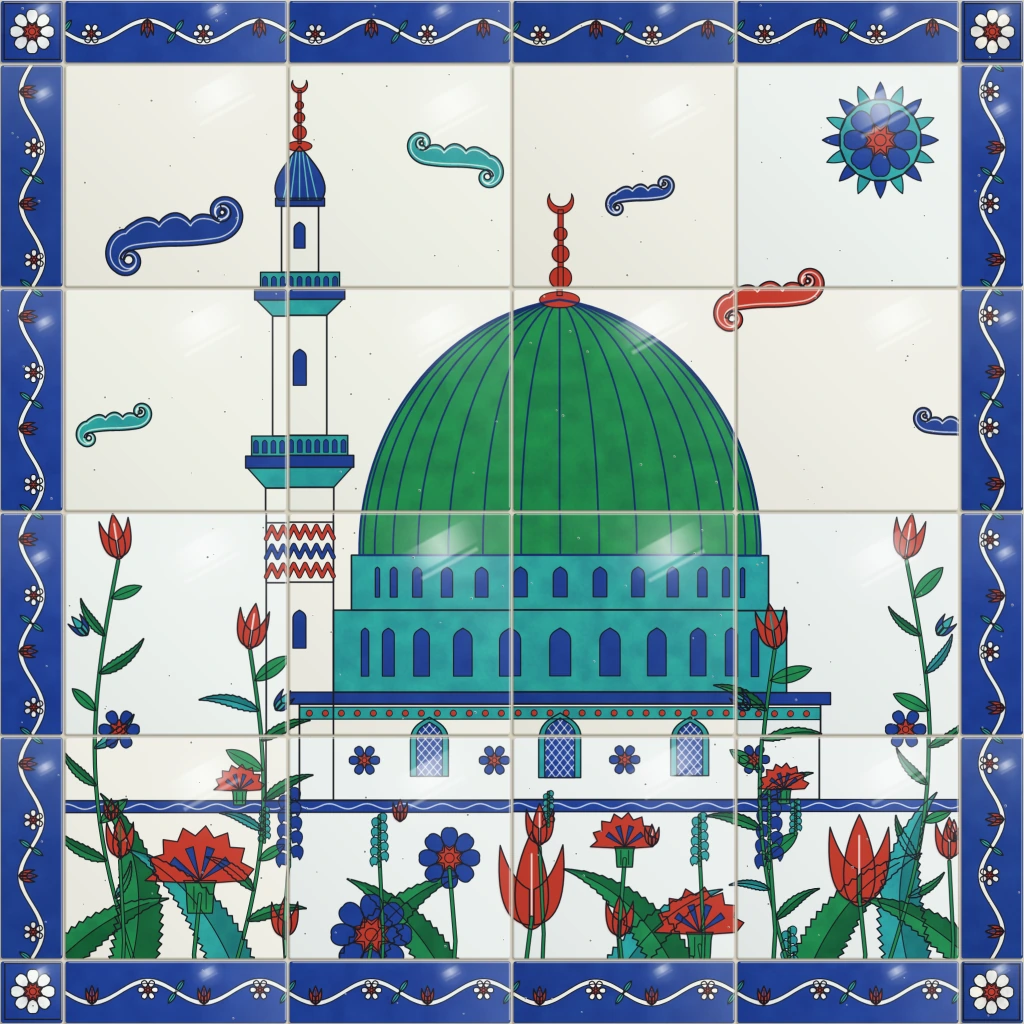
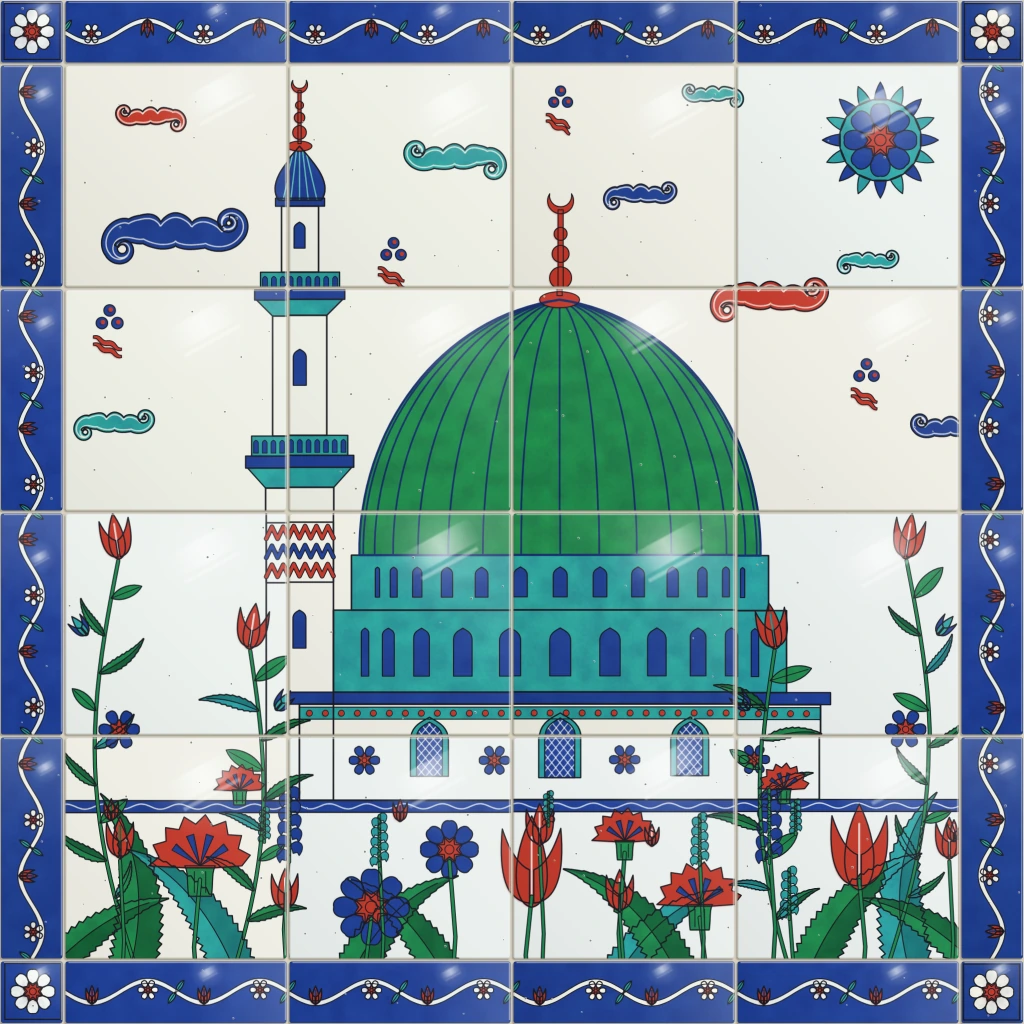
Atölye: gözden geçirme düzeltmelerinin ara kaydı
Claude-Session: https://claude.ai/code/session_01Q8CfoBGMPN7gfLWQYpMs1J

diff --git a/atolye/stiller/S-010-iznik-cinisi/ornek.html b/atolye/stiller/S-010-iznik-cinisi/ornek.html
@@ -282,8 +282,9 @@
     }
     const L0 = 40;
     const Lk = 95;
-    const sag = omurga(0, 0, 0, L0 + Lk, 1, (u) => (u < L0 ? -0.004 : -(0.025 + 0.0016 * (u - L0))));
-    const sol = omurga(0, 0, Math.PI, L0 + Lk * 0.85, 1, (u) => (u < L0 ? -0.004 : -(0.025 + 0.00176 * (u - L0))));
+    // omurga hafif S çizer; iki ucu ters yönlere helezonla kıvrılır
+    const sag = omurga(0, 0, 0, L0 + Lk, 1, (u) => (u < L0 ? 0.0075 * Math.sin((u / L0) * Math.PI) : -(0.025 + 0.0016 * (u - L0))));
+    const sol = omurga(0, 0, Math.PI, L0 + Lk * 0.85, 1, (u) => (u < L0 ? 0.0075 * Math.sin((u / L0) * Math.PI) : -(0.025 + 0.00176 * (u - L0))));
     const pts = sol.slice().reverse().concat(sag.slice(1));
     const m = sol.length - 1;
     const W = 13;
@@ -291,7 +292,9 @@
     const taper = (i) => 1 - 0.8 * yumusak(0.28, 1, d(i));
     const lob = (i) => 1 + 0.8 * Math.exp(-Math.pow((i - m) / (L0 + 12), 2)) * Math.pow(Math.abs(Math.cos(((i - m) * Math.PI) / (L0 * 0.78))), 0.6);
     const wUst = (t, i) => W * taper(i) * lob(i);
-    const wAlt = (t, i) => W * 0.75 * taper(i);
+    // alt kenar da küçük, şaşırtmalı loblu: düğümlü kuşak
+    const lobAlt = (i) => 1 + 0.42 * Math.exp(-Math.pow((i - m) / (L0 + 4), 2)) * Math.pow(Math.abs(Math.sin(((i - m) * Math.PI) / (L0 * 0.78))), 0.6);
+    const wAlt = (t, i) => W * 0.72 * taper(i) * lobAlt(i);
     const dis = serit(pts, wAlt, wUst);
     const hedef = renk === C.kirmizi ? kz : r;
     hedef.fillStyle = renk;
@@ -319,6 +322,24 @@
   cinBulutu(950, 430, 0.55, -1, C.kobalt);
   cinBulutu(115, 425, 0.55, 1, C.firuze);
   cinBulutu(640, 196, 0.5, 1, C.kobalt);
+  cinBulutu(150, 118, 0.48, -1, C.kirmizi);
+  cinBulutu(712, 96, 0.42, -1, C.firuze);
+  cinBulutu(868, 262, 0.42, 1, C.firuze);
+  // çintemani: üç top ve altında iki dalgalı kaplan çizgisi
+  function cintemani(x, y, s) {
+    for (const [u, v] of [[0, -8.5], [-8.6, 5.5], [8.6, 5.5]]) {
+      boya(S.daireYolu(x + u * s, y + v * s, 6.4 * s), C.kobalt, 1.0);
+      boya(S.daireYolu(x + u * s + 1.2 * s, y + v * s - 1.0 * s, 2.6 * s), C.kirmizi, 0);
+    }
+    for (const dy of [21, 29]) {
+      const pts = omurga(x - 18 * s, y + dy * s, -0.05, 36, s, (u) => 0.16 * Math.sin(u / 2.6) / s);
+      boya(serit(pts, (t) => (1.3 + 1.4 * Math.sin(Math.PI * t)) * s, (t) => (1.3 + 1.4 * Math.sin(Math.PI * t)) * s), C.kirmizi, 0.9);
+    }
+  }
+  cintemani(110, 318, 0.9);
+  cintemani(394, 250, 0.85);
+  cintemani(560, 98, 0.8);
+  cintemani(866, 372, 0.85);
   {
     // güneş: büyük rozet, ışın taçlı
     const gx = 880;
@@ -478,13 +499,13 @@
     [30, 990, 170, -0.85, 0.7],
     [1000, 990, 170, -2.3, -0.7],
   ].forEach(([x, y, L, a, k], i) => saz(x, y, L, a, k, i % 3 === 1 ? C.firuze : C.yesil, i % 3 === 1 ? '#1C7F80' : C.yesilKoyu));
-  const on = B.cicekler.slice(4).map((c) => ({ x: c.x, y: 800 + (c.y - 800) * 0.8, r: c.r }));
+  const on = B.cicekler.slice(4).map((c) => ({ x: c.x, y: 806 + (c.y - 800) * 0.6, r: c.r * 0.9 }));
   const turler = ['sumbul', 'rozet', 'karanfil', 'sumbul', 'karanfil', 'lale', 'rozet', 'karanfil', 'lale'];
   on.forEach((c, i) => {
     sapCiz([[c.x, c.y + 10], [c.x + (i % 2 ? 6 : -6), (c.y + 1024) / 2], [c.x, 1030]], 2.6);
   });
   // ara laleler ve sümbüller
-  const ara = [[120, 850, 'lale'], [380, 846, 'sumbul'], [540, 838, 'lale'], [700, 846, 'sumbul'], [950, 852, 'lale'], [285, 930, 'lale'], [620, 930, 'lale'], [790, 960, 'sumbul']];
+  const ara = [[120, 850, 'lale'], [380, 846, 'sumbul'], [540, 838, 'lale'], [700, 846, 'sumbul'], [950, 852, 'lale'], [285, 902, 'lale'], [620, 904, 'lale'], [790, 900, 'sumbul']];
   ara.forEach(([x, y]) => sapCiz([[x, y + 10], [x + 4, (y + 1030) / 2], [x, 1030]], 2.2));
   ara.forEach(([x, y, t]) => (t === 'lale' ? lale(x, y, 0.95, 0, C.kirmizi) : sumbul(x, y, 0.9, 0, C.firuze)));
   on.forEach((c, i) => {
